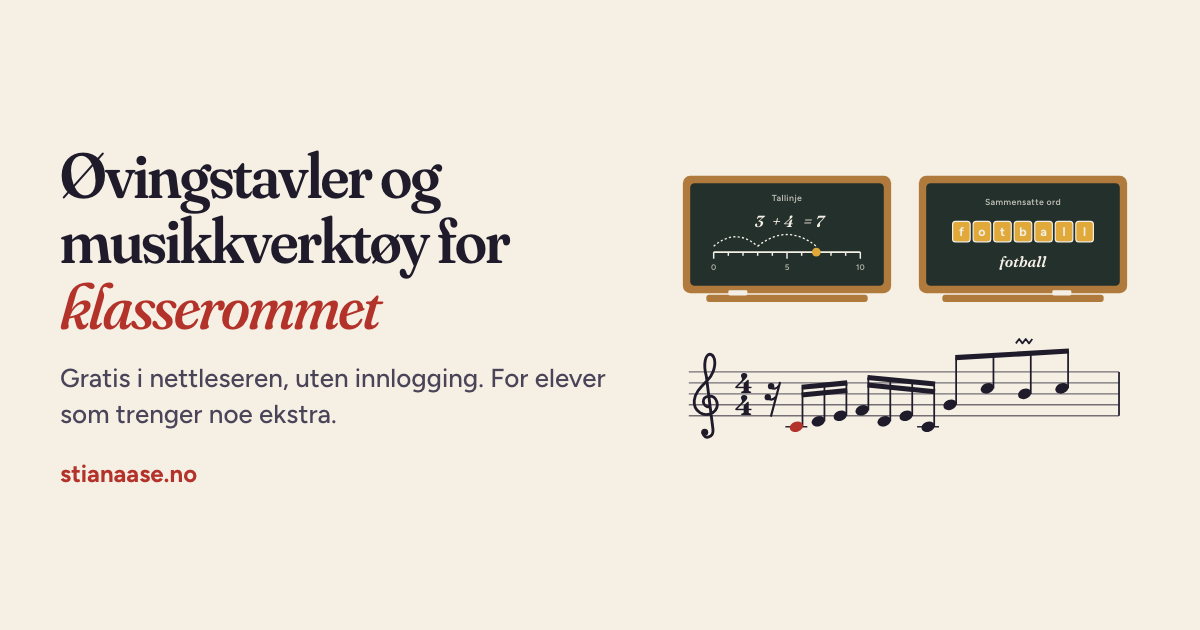
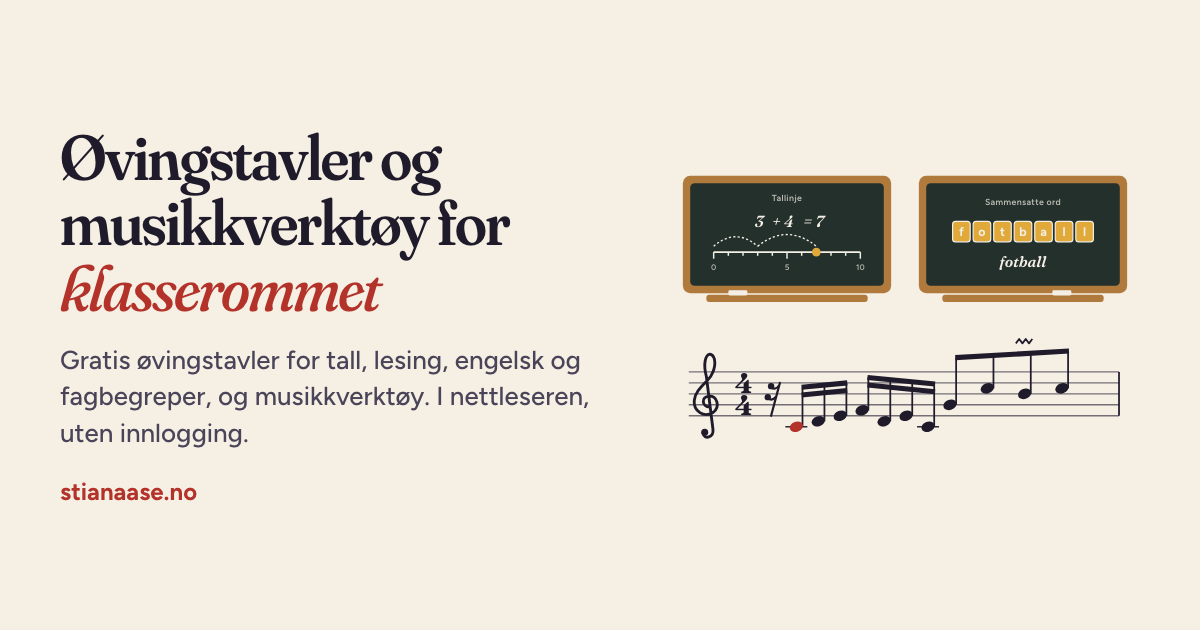
Forsiden: ingressen sier hva tavlene er til (grunnleggende ferdigheter, korte økter, sakkyndige vurderinger og IOP); delingsbilde og beskrivelse oppdatert

Changed region(s): [[0.0308, 0.2111, 0.4933, 0.8143]]

diff --git a/laerer/index.html b/laerer/index.html
@@ -4,12 +4,12 @@
 <meta charset="utf-8">
 <meta name="viewport" content="width=device-width, initial-scale=1">
 <title>For lærere – Stian Norgård Aase</title>
-<meta name="description" content="Fire øvingstavler og tre musikkverktøy som lærere kan bruke fritt i nettleseren, for elever som trenger noe ekstra på barnetrinnet eller ungdomstrinnet.">
+<meta name="description" content="Fire øvingstavler for grunnleggende ferdigheter i tall, lesing, engelsk og fagbegreper, og tre musikkverktøy. Gratis i nettleseren, uten innlogging.">
 <meta property="og:type" content="website">
 <meta property="og:locale" content="nb_NO">
 <meta property="og:site_name" content="stianaase.no">
 <meta property="og:title" content="For lærere – Stian Norgård Aase">
-<meta property="og:description" content="Fire øvingstavler og tre musikkverktøy som lærere kan bruke fritt i nettleseren, for elever som trenger noe ekstra på barnetrinnet eller ungdomstrinnet.">
+<meta property="og:description" content="Fire øvingstavler for grunnleggende ferdigheter i tall, lesing, engelsk og fagbegreper, og tre musikkverktøy. Gratis i nettleseren, uten innlogging.">
 <meta property="og:url" content="https://sabajan-ki.github.io/stianaase-no/laerer/">
 <meta property="og:image" content="https://sabajan-ki.github.io/stianaase-no/delingsbilde.png">
 <meta property="og:image:width" content="1200">

diff --git a/index.html b/index.html
@@ -39,7 +39,8 @@
 <div class="hero kort"><div class="wrap">
   <ul class="kicker"><li>Fritt å bruke</li><li>Barnetrinnet</li><li>Ungdomstrinnet</li></ul>
   <h1>Øvingstavler og musikkverktøy for <em>klasserommet</em></h1>
-  <p class="lead">Verktøy som åpnes rett i nettleseren, uten innlogging: tavler for tall, lesing, engelsk og fagbegreper, og et notekurs, et piano og en gehørtrener til musikktimene. De er laget for elever som trenger noe ekstra, på barnetrinnet eller ungdomstrinnet, men hele klassen kan bruke dem. Verktøyene sender ingenting noe sted, og det du skriver inn, blir bare liggende på maskinen du bruker.</p>
+  <p class="lead">Tavlene er til korte økter der eleven øver på grunnleggende ferdigheter: tallforståelse og regning, høyfrekvente ord og lydmønstre, engelsk lyd og skrift, og fagbegreper. Det er den typen øving sakkyndige vurderinger og IOP-er ofte anbefaler, og den kan gjøres med én elev, en gruppe eller hele klassen. Til musikktimene finnes et grunnkurs i noter, et piano og en gehørtrener.</p>
+  <p class="lead">Alt åpnes rett i nettleseren, uten innlogging. Verktøyene sender ingenting noe sted, og det du skriver inn, blir bare liggende på maskinen du bruker.</p>
 </div></div>
 <div class="wrap"><div class="doors">
   <a class="door" href="laerer/#tavler">
